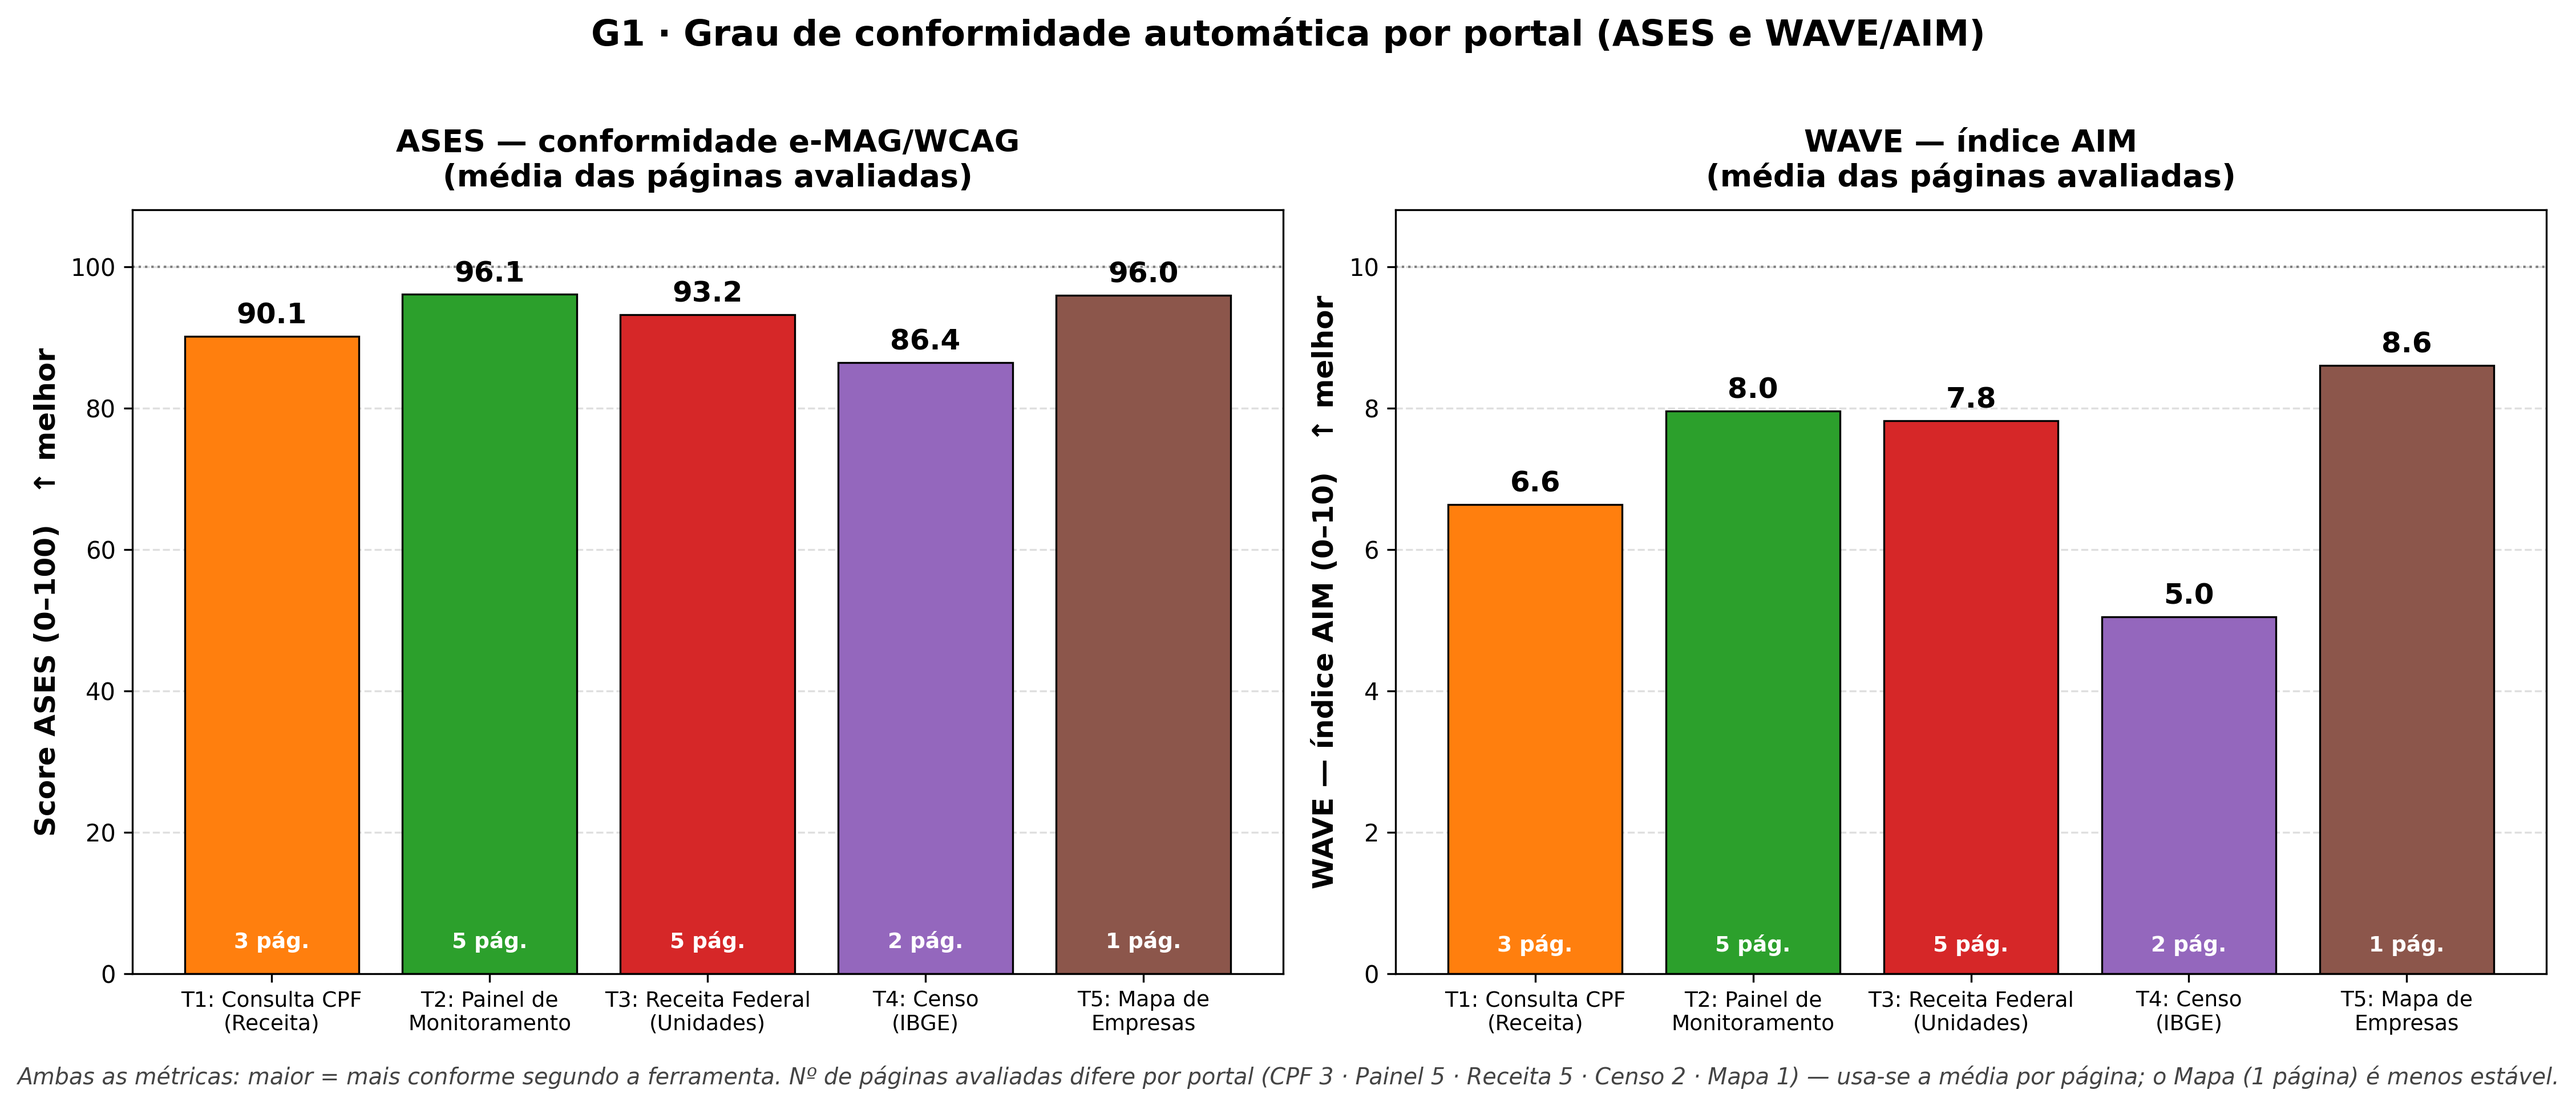
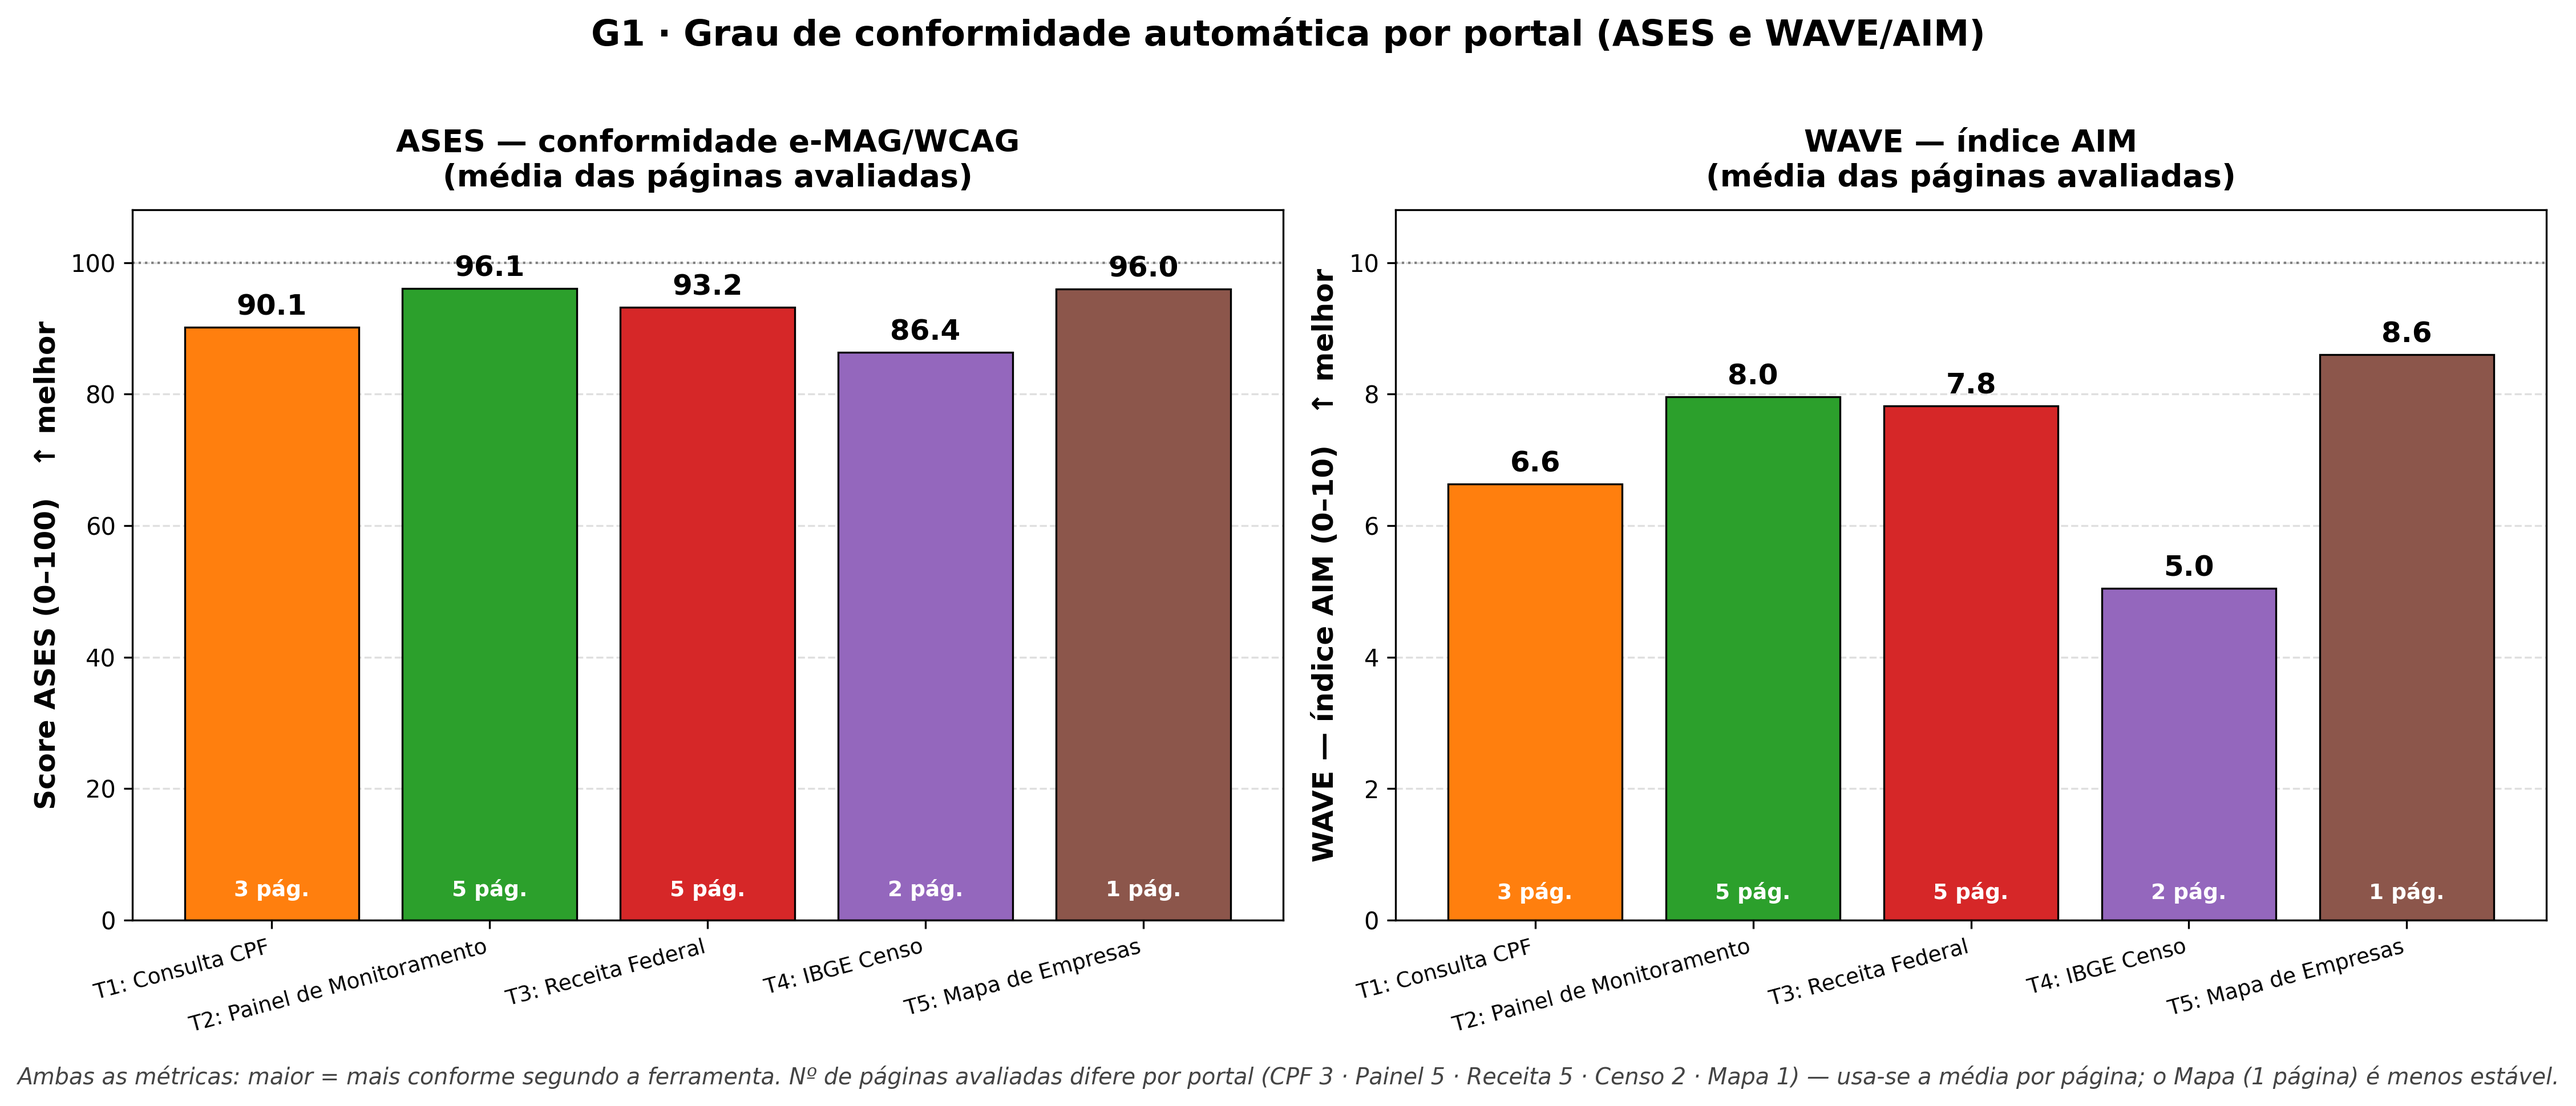
Ajustes

diff --git a/gerar_g1_conformidade.py b/gerar_g1_conformidade.py
@@ -21,11 +21,11 @@ from matplotlib.lines import Line2D
 # Constantes compartilhadas (mesmo padrão dos scripts já existentes)
 # ------------------------------------------------------------------
 nomes_tarefas = {
-    1: 'T1: Consulta CPF\n(Receita)',
-    2: 'T2: Painel de\nMonitoramento',
-    3: 'T3: Receita Federal\n(Unidades)',
-    4: 'T4: Censo\n(IBGE)',
-    5: 'T5: Mapa de\nEmpresas',
+    1: 'T1: Consulta CPF',
+    2: 'T2: Painel de Monitoramento',
+    3: 'T3: Receita Federal',
+    4: 'T4: IBGE Censo',
+    5: 'T5: Mapa de Empresas',
 }
 cores_tarefa = {1: '#ff7f0e', 2: '#2ca02c', 3: '#d62728', 4: '#9467bd', 5: '#8c564b'}
 
@@ -97,7 +97,8 @@ axA.set_title('ASES — conformidade e-MAG/WCAG\n(média das páginas avaliadas)
               fontsize=13, fontweight='bold', pad=10)
 axA.grid(axis='y', linestyle='--', alpha=0.4)
 axA.set_axisbelow(True)
-axA.tick_params(axis='x', labelsize=9)
+axA.set_xticks(range(len(labels)))
+axA.set_xticklabels(labels, rotation=15, ha='right', fontsize=9)
 
 # -- WAVE/AIM (0-10) --
 vals_aim = [wave_aim[t] for t in tarefas]
@@ -114,7 +115,8 @@ axB.set_title('WAVE — índice AIM\n(média das páginas avaliadas)',
               fontsize=13, fontweight='bold', pad=10)
 axB.grid(axis='y', linestyle='--', alpha=0.4)
 axB.set_axisbelow(True)
-axB.tick_params(axis='x', labelsize=9)
+axB.set_xticks(range(len(labels)))
+axB.set_xticklabels(labels, rotation=15, ha='right', fontsize=9)
 
 fig.suptitle('G1 · Grau de conformidade automática por portal (ASES e WAVE/AIM)',
              fontsize=15, fontweight='bold', y=1.02)
@@ -151,7 +153,8 @@ def barras_paginas(ax, pages_por_tarefa, media_por_tarefa, ymax, ylabel, titulo,
         ax.text(xc + meia + 0.03, media_por_tarefa[t], fmt.format(media_por_tarefa[t]),
                 ha='left', va='center', fontsize=12, fontweight='bold', color='black')
     ax.set_xticks(xpos)
-    ax.set_xticklabels([nomes_tarefas[t] for t in tarefas], fontsize=11.5)
+    ax.set_xticklabels([nomes_tarefas[t] for t in tarefas], rotation=15, ha='right',
+                       fontsize=10.5)
     ax.set_xlim(-0.5, xpos[-1] + 0.5)
     ax.set_ylim(0, ymax)
     ax.set_ylabel(ylabel, fontsize=12.5, fontweight='bold')
@@ -165,16 +168,16 @@ def barras_paginas(ax, pages_por_tarefa, media_por_tarefa, ymax, ylabel, titulo,
 
 fig, (axA, axB) = plt.subplots(1, 2, figsize=(15, 6))
 barras_paginas(axA, ases_pages, ases_score, 100,
-               'Score ASES (0–100)   ↑ melhor', 'ASES — pontuação por página', '{:.1f}')
+               'Score ASES (0–100)', 'ASES — pontuação por página', '{:.1f}')
 barras_paginas(axB, wave_aim_pages, wave_aim, 10,
-               'WAVE — índice AIM (0–10)   ↑ melhor', 'WAVE/AIM — pontuação por página', '{:.1f}')
+               'WAVE — índice AIM (0–10)', 'WAVE/AIM — pontuação por página', '{:.1f}')
 
-leg = [Patch(facecolor='#9aa0a6', edgecolor='white', label='Cada barra = uma página avaliada'),
+leg = [Patch(facecolor='#9aa0a6', edgecolor='white', label='Barra única = Página avaliada'),
        Line2D([0], [0], color='black', lw=1.8, linestyle='--', label='Média do portal')]
 fig.legend(handles=leg, loc='lower center', bbox_to_anchor=(0.5, -0.02),
            ncol=2, frameon=False, fontsize=11)
 
-fig.suptitle('G1 · Conformidade automática por página, com a média de cada portal',
+fig.suptitle('Conformidade Automática por Página e Média — ASES e WAVE',
              fontsize=15, fontweight='bold', y=1.0)
 plt.tight_layout(rect=(0, 0.04, 1, 1))
 plt.savefig('g1_ases_aim_por_pagina.png', dpi=300, bbox_inches='tight')

diff --git a/main.py b/main.py
@@ -121,7 +121,7 @@ def gerar_radar_grupo(df_grupo, grupo_key, grupo_nome, arquivo,
                handler_map={tuple: HandlerTuple(ndivide=None)},
                loc='center', bbox_to_anchor=(0.83, 0.27), fontsize=12)
     fig.text(0.83, 0.13,
-             'NASA-TLX: 0–20 por dimensão · maior = mais carga',
+             'NASA-TLX: 0–20 por dimensão · maior = mais carga (pior)',
              ha='center', fontsize=10.5, color='#444', style='italic')
 
     plt.savefig(arquivo, dpi=300, bbox_inches='tight')
